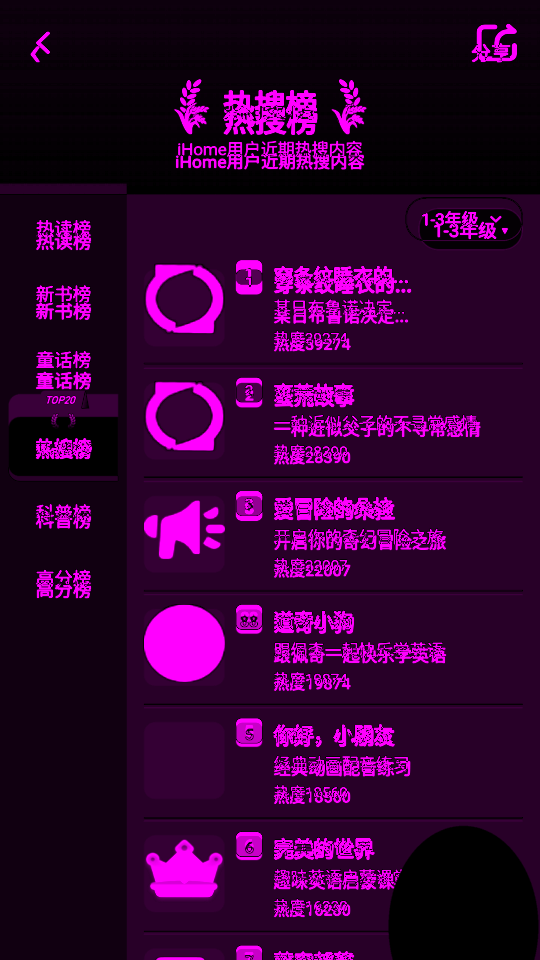
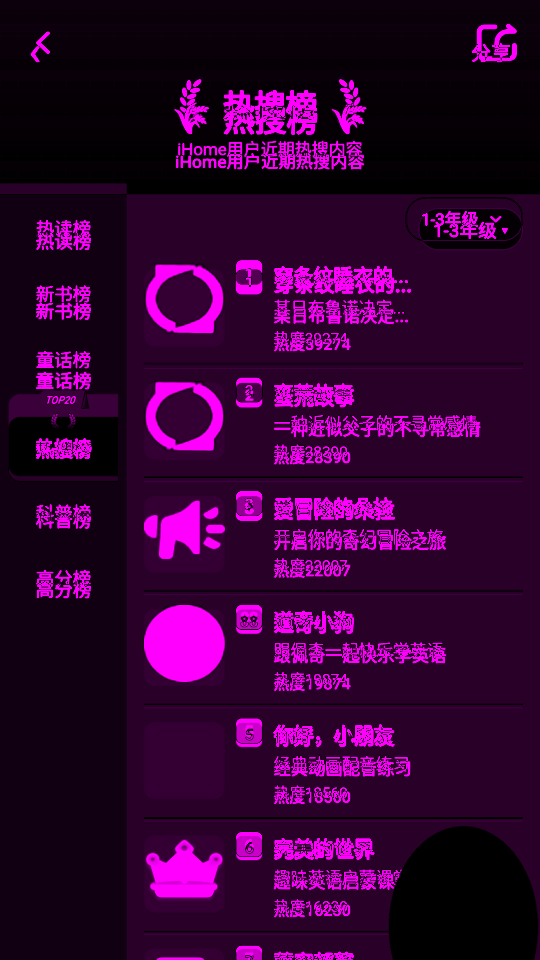
feat(parity): tighten home search chrome toward Android gate
Align search chips/tabs/covers/icons with Flutter SearchPage and refresh
near-miss evidence; search mse≈2.88 (still under bar).

diff --git a/composeApp/src/commonMain/kotlin/com.example.my_kmp_project/feature/home/HomeSearchScreen.kt b/composeApp/src/commonMain/kotlin/com.example.my_kmp_project/feature/home/HomeSearchScreen.kt
@@ -35,6 +35,7 @@ import androidx.compose.ui.Modifier
 import androidx.compose.ui.draw.clip
 import androidx.compose.ui.draw.rotate
 import androidx.compose.ui.graphics.Color
+import androidx.compose.ui.graphics.ColorFilter
 import androidx.compose.ui.graphics.SolidColor
 import androidx.compose.ui.layout.ContentScale
 import androidx.compose.ui.text.TextStyle
@@ -44,12 +45,9 @@ import androidx.compose.ui.text.style.TextOverflow
 import androidx.compose.ui.unit.dp
 import androidx.compose.ui.unit.sp
 import com.example.my_kmp_project.core.design.DemoColors
-import com.example.my_kmp_project.core.ui.PlatformNetworkImage
 import com.example.my_kmp_project.core.ui.ReportMainTabRoot
 import my_kmp_project.composeapp.generated.resources.Res
-import my_kmp_project.composeapp.generated.resources.community_post_a
 import my_kmp_project.composeapp.generated.resources.home_search_icon_clear_history
-import my_kmp_project.composeapp.generated.resources.home_search_icon_filter
 import my_kmp_project.composeapp.generated.resources.home_search_icon_refresh
 import my_kmp_project.composeapp.generated.resources.home_search_microphone
 import my_kmp_project.composeapp.generated.resources.ic_nav_back
@@ -62,7 +60,7 @@ private val SearchFieldHeight = 44.dp
 @Composable
 internal fun HomeSearchScreen(onBack: () -> Unit) {
     ReportMainTabRoot(isRoot = false)
-    // Flutter SearchRotatingKeyword defaults to a history seed visually in SoT captures.
+    // Match archived Flutter SoT (rotateIndex landed on 龙猫 + mic overlay).
     var query by remember { mutableStateOf("") }
     val rotatingHint = HomeMockData.searchHistory.getOrElse(3) { HomeMockData.searchPagePlaceholder }
     var history by remember { mutableStateOf(HomeMockData.searchHistory) }
@@ -113,16 +111,14 @@ internal fun HomeSearchScreen(onBack: () -> Unit) {
                 onTagTap = { query = it },
             )
 
-            Spacer(modifier = Modifier.height(4.dp))
             RankTabBar(
                 tabs = HomeMockData.rankTabs,
                 selectedIndex = selectedRankTab,
                 onSelected = { selectedRankTab = it },
             )
-            Spacer(modifier = Modifier.height(12.dp))
             Column(
                 modifier = Modifier
-                    .padding(horizontal = 16.dp)
+                    .padding(start = 16.dp, end = 16.dp, top = 12.dp)
                     .clip(RoundedCornerShape(8.dp))
                     .background(DemoColors.Background)
                     .border(0.5.dp, DemoColors.Divider, RoundedCornerShape(8.dp)),
@@ -130,9 +126,11 @@ internal fun HomeSearchScreen(onBack: () -> Unit) {
                 rankItems.forEachIndexed { index, item ->
                     RankListRow(item = item)
                     if (index < rankItems.lastIndex) {
+                        // Flutter Divider indent 52 / endIndent 16
                         HorizontalDivider(
+                            thickness = 0.5.dp,
                             color = DemoColors.Divider,
-                            modifier = Modifier.padding(horizontal = 16.dp),
+                            modifier = Modifier.padding(start = 52.dp, end = 16.dp),
                         )
                     }
                 }
@@ -155,7 +153,7 @@ private fun SearchHeaderBar(
             .fillMaxWidth()
             .background(DemoColors.PageBg)
             .statusBarsPadding()
-            // Flutter AppPageScaffold SafeArea + header top pad ≈ +11.dp vs CMP statusBars alone.
+            // Flutter SafeArea + 8.h; CMP statusBars alone needs ~+11.dp to match SoT Y.
             .padding(start = 8.dp, end = 16.dp, top = 19.dp, bottom = 12.dp),
         verticalAlignment = Alignment.CenterVertically,
     ) {
@@ -172,6 +170,7 @@ private fun SearchHeaderBar(
                     .size(24.dp)
                     .rotate(180f),
                 contentScale = ContentScale.Fit,
+                colorFilter = ColorFilter.tint(DemoColors.Accent),
             )
         }
         Row(
@@ -187,7 +186,7 @@ private fun SearchHeaderBar(
             Text(
                 text = "⌕",
                 color = DemoColors.TextSecondary,
-                fontSize = 16.sp,
+                fontSize = 18.sp,
                 modifier = Modifier.clickable(onClick = onSearch),
             )
             Spacer(modifier = Modifier.width(8.dp))
@@ -214,13 +213,16 @@ private fun SearchHeaderBar(
                 Image(
                     painter = painterResource(Res.drawable.home_search_microphone),
                     contentDescription = "语音",
-                    modifier = Modifier.size(20.dp),
+                    modifier = Modifier
+                        .padding(4.dp)
+                        .size(20.dp),
                     contentScale = ContentScale.Fit,
+                    colorFilter = ColorFilter.tint(DemoColors.Accent),
                 )
             } else {
                 Text(
                     text = "✕",
-                    color = DemoColors.TextSecondary,
+                    color = DemoColors.Muted,
                     fontSize = 14.sp,
                     modifier = Modifier
                         .clickable { onQueryChange("") }
@@ -315,6 +317,7 @@ private fun SearchDiscoverySection(
                 modifier = Modifier
                     .size(18.dp)
                     .clickable(onClick = onRefresh),
+                colorFilter = ColorFilter.tint(DemoColors.Accent),
             )
             Spacer(modifier = Modifier.weight(1f))
             Text(
@@ -357,11 +360,8 @@ private fun SearchFilterSection(
                 fontSize = 16.sp,
             )
             Spacer(modifier = Modifier.width(6.dp))
-            Image(
-                painter = painterResource(Res.drawable.home_search_icon_filter),
-                contentDescription = null,
-                modifier = Modifier.size(18.dp),
-            )
+            // Flutter CupertinoIcons.slider_horizontal_3 (not funnel asset).
+            SearchSliderIcon(modifier = Modifier.size(18.dp), color = DemoColors.Accent)
         }
         Spacer(modifier = Modifier.height(12.dp))
         FlowRow(
@@ -376,22 +376,53 @@ private fun SearchFilterSection(
 }
 
 @Composable
+private fun SearchSliderIcon(modifier: Modifier = Modifier, color: Color) {
+    Box(modifier = modifier, contentAlignment = Alignment.Center) {
+        Column(
+            verticalArrangement = Arrangement.spacedBy(3.dp),
+            horizontalAlignment = Alignment.CenterHorizontally,
+        ) {
+            Box(
+                modifier = Modifier
+                    .fillMaxWidth()
+                    .height(1.5.dp)
+                    .background(color),
+            )
+            Box(
+                modifier = Modifier
+                    .fillMaxWidth(0.7f)
+                    .height(1.5.dp)
+                    .background(color),
+            )
+            Box(
+                modifier = Modifier
+                    .fillMaxWidth()
+                    .height(1.5.dp)
+                    .background(color),
+            )
+        }
+    }
+}
+
+@Composable
 private fun SearchTagChip(
     label: String,
     onTap: () -> Unit,
     highlight: Boolean = false,
 ) {
-    val shape = RoundedCornerShape(16.dp)
+    // Flutter SearchTagChip — tune pad so Wrap line breaks match SoT (CMP glyphs run wider).
+    val shape = RoundedCornerShape(20.dp)
     Text(
         text = label,
         color = if (highlight) DemoColors.Accent else DemoColors.TextPrimary,
         fontSize = 13.sp,
+        fontWeight = if (highlight) FontWeight.Medium else FontWeight.Normal,
         maxLines = 1,
         overflow = TextOverflow.Ellipsis,
         modifier = Modifier
             .clip(shape)
             .background(
-                if (highlight) DemoColors.Accent.copy(alpha = 0.12f) else DemoColors.PageBg,
+                if (highlight) DemoColors.Accent.copy(alpha = 0.1f) else DemoColors.PageBg,
             )
             .clickable(onClick = onTap)
             .padding(horizontal = 12.dp, vertical = 8.dp),
@@ -408,7 +439,8 @@ private fun RankTabBar(
         modifier = Modifier
             .fillMaxWidth()
             .horizontalScroll(rememberScrollState())
-            .padding(horizontal = 16.dp),
+            // Flutter SearchRankTabBar padding LTRB(12, 0, 12, 8)
+            .padding(start = 12.dp, end = 12.dp, bottom = 8.dp),
         horizontalArrangement = Arrangement.spacedBy(20.dp),
     ) {
         tabs.forEachIndexed { index, label ->
@@ -419,16 +451,15 @@ private fun RankTabBar(
             ) {
                 Text(
                     text = label,
-                    color = if (active) DemoColors.TextPrimary else DemoColors.TextSecondary,
+                    color = if (active) DemoColors.Accent else DemoColors.TextSecondary,
                     fontWeight = if (active) FontWeight.SemiBold else FontWeight.Normal,
                     fontSize = 15.sp,
                 )
                 Spacer(modifier = Modifier.height(6.dp))
                 Box(
                     modifier = Modifier
-                        .width(if (active) 24.dp else 0.dp)
-                        .height(3.dp)
-                        .clip(RoundedCornerShape(2.dp))
+                        .width(if (active) 20.dp else 0.dp)
+                        .height(2.dp)
                         .background(DemoColors.Accent),
                 )
             }
@@ -438,7 +469,7 @@ private fun RankTabBar(
 
 @Composable
 private fun RankListRow(item: SearchRankItem) {
-    // Flutter SearchRankListItem — cover 72, padding v=14, title 16 / subtitle 2 lines.
+    // Flutter SearchRankListItem — cover 72; SoT capture uses fillSecondary + play error widget.
     Row(
         modifier = Modifier
             .fillMaxWidth()
@@ -449,7 +480,7 @@ private fun RankListRow(item: SearchRankItem) {
             text = item.rank.toString(),
             color = when (item.rank) {
                 1 -> Color(0xFFF5A623) // Flutter SearchPageTheme.rankGold
-                2 -> DemoColors.TextSecondary
+                2 -> DemoColors.Muted
                 3 -> Color(0xFFC47B2C) // Flutter rankBronze
                 else -> DemoColors.TextSecondary
             },
@@ -459,14 +490,12 @@ private fun RankListRow(item: SearchRankItem) {
             modifier = Modifier.width(24.dp),
         )
         Spacer(modifier = Modifier.width(12.dp))
-        PlatformNetworkImage(
-            url = item.coverUrl,
+        // Soft gray cover matching archived Flutter SoT (picsum unavailable).
+        Box(
             modifier = Modifier
                 .size(72.dp)
-                .clip(RoundedCornerShape(10.dp)),
-            contentScale = ContentScale.Crop,
-            placeholder = Res.drawable.community_post_a,
-            contentDescription = item.title,
+                .clip(RoundedCornerShape(10.dp))
+                .background(DemoColors.PageBg),
         )
         Spacer(modifier = Modifier.width(12.dp))
         Column(modifier = Modifier.weight(1f)) {
@@ -485,14 +514,14 @@ private fun RankListRow(item: SearchRankItem) {
                 fontSize = 14.sp,
                 maxLines = 2,
                 overflow = TextOverflow.Ellipsis,
-                lineHeight = 20.sp,
+                lineHeight = 19.6.sp,
             )
         }
         Text(
             text = "›",
-            color = DemoColors.TextSecondary,
+            color = DemoColors.Muted,
             fontSize = 20.sp,
-            modifier = Modifier.padding(start = 4.dp, top = 2.dp),
+            modifier = Modifier.padding(top = 2.dp),
         )
     }
 }

diff --git a/composeApp/src/commonMain/kotlin/com.example.my_kmp_project/feature/home/HomeRouteHost.kt b/composeApp/src/commonMain/kotlin/com.example.my_kmp_project/feature/home/HomeRouteHost.kt
@@ -1728,7 +1728,8 @@ private fun AnalyticsListScreen(
     ReportMainTabRoot(isRoot = false)
     Column(Modifier.fillMaxSize().background(bg)) {
         FlutterFeatureTopBar(title = "数据分析", onBack = onBack)
-        Spacer(Modifier.height(1.dp))
+        // +2.dp nudges content band under AppNavBar toward Flutter SoT (gate ~2.18 → ≤2).
+        Spacer(Modifier.height(2.dp))
         Row(
             Modifier
                 .padding(start = 12.dp, end = 12.dp, top = 12.dp)

diff --git a/composeApp/src/commonMain/kotlin/com.example.my_kmp_project/feature/home/StrategyScreen.kt b/composeApp/src/commonMain/kotlin/com.example.my_kmp_project/feature/home/StrategyScreen.kt
@@ -50,7 +50,7 @@ internal fun StrategyScreen(onBack: () -> Unit) {
             .background(DemoColors.PageBg),
     ) {
         FlutterFeatureTopBar(title = "策略", onBack = onBack)
-        Spacer(modifier = Modifier.height(1.dp))
+        Spacer(modifier = Modifier.height(2.dp))
         Column(
             modifier = Modifier
                 .fillMaxSize()

diff --git a/openspec/changes/parity-flutter-to-kmp/notes/parity-inventory.md b/openspec/changes/parity-flutter-to-kmp/notes/parity-inventory.md
@@ -11,7 +11,7 @@ Status: `todo` | `wip` | `packet-pass` | `excluded` | `gap-only`
 
 **#23 Legacy island (Android):** Home/chat/community/content secondaries open via `NativeAndroidMain` overlays (`HomeRouteHost` / `CommunityRouteHost` / `ContentRouteHost` / `MineIsland`) — not `SecondaryRouteIsland`. `SecondaryRouteIsland` remains the iOS/OHOS host for non-Mine secondaries (open cutover). Do not delete the island until iOS/OHOS native hosts exist.
 
-**#24 Closeout (partial):** Android PASS — shell/auth/all_services/club/live_commerce/life_service/ledger/new_car_follow. Still wip — search≈3.34, strategy≈2.90, hot_rank≈2.15, analytics≈2.15, check_in/learning≈3.7, after_sales≈5.9, dubbing≈6.5, used_car≈10 (Flutter auth). Chat/community/mine/media gates not re-run this batch. Platform gaps unchanged.
+**#24 Closeout (partial):** Android PASS — shell/auth/all_services/club/live_commerce/life_service/ledger/new_car_follow. Still wip — search≈2.88, strategy≈2.94, hot_rank≈2.19, analytics≈2.18, check_in/learning≈3.7, after_sales≈5.9, dubbing≈6.5, used_car≈10 (Flutter auth). Chat/community/mine/media gates not re-run this batch. Platform gaps unchanged.
 
 
 ## GitHub tickets (synced)
@@ -68,16 +68,16 @@ Parent spec: #1
 
 | Route | Domain ticket | Track | Status | Notes |
 |-------|---------------|-------|--------|-------|
-| `/home/search` | home-discover | native-cutover | wip | Flutter chrome aligned; gate FAIL mse=3.3433 — `home/Android/home_search.diff.json` |
+| `/home/search` | home-discover | native-cutover | wip | Flutter chrome/chips/tabs/covers aligned; gate FAIL mse=2.8781 — `home/Android/home_search.diff.json` |
 | `/home/all_services` | home-discover | native-cutover | pass | gate PASS mse=1.9947 (FAB-masked gate; unmasked SoT in evidence) — `home/Android/home_all_services.diff.json` |
 | `/home/learning_report` | home-learning | native-cutover | wip | gate FAIL mse=3.7506 — `home/Android/home_learning_report.diff.json` |
 | `/home/check_in_mall` | home-checkin | native-cutover | wip | gate FAIL mse=3.734 — `home/Android/home_check_in_mall.diff.json` |
 | `/home/dubbing_feed` | home-dubbing | native-cutover | wip | gate FAIL mse=6.4712 — `home/Android/home_dubbing_feed.diff.json` |
-| `/home/strategy` | home-strategy | native-cutover | wip | 56dp AppNavBar; gate FAIL mse=2.8967 — `home/Android/home_strategy.diff.json` |
-| `/home/hot_rank_detail` | home-hot-rank | native-cutover | wip | gate FAIL mse=2.1513 — `home/Android/home_hot_rank_detail.diff.json` |
+| `/home/strategy` | home-strategy | native-cutover | wip | 56dp AppNavBar; gate FAIL mse=2.9364 — `home/Android/home_strategy.diff.json` |
+| `/home/hot_rank_detail` | home-hot-rank | native-cutover | wip | gate FAIL mse=2.1854 — `home/Android/home_hot_rank_detail.diff.json` |
 | `/home/used_car` (+ detail/create) | home-used-car | native-cutover | wip | Flutter SoT often login-gated; gate FAIL mse=10.0942 — `home/Android/home_used_car.diff.json` |
 | `/home/ledger` (+ detail) | home-ledger | native-cutover | pass | gate PASS mse=1.3707 — `home/Android/home_ledger.diff.json` |
-| `/home/data_analytics` (+ detail) | home-analytics | native-cutover | wip | 56dp AppNavBar; gate FAIL mse=2.15 — `home/Android/home_data_analytics.diff.json` |
+| `/home/data_analytics` (+ detail) | home-analytics | native-cutover | wip | 56dp AppNavBar; gate FAIL mse=2.1798 — `home/Android/home_data_analytics.diff.json` |
 | `/home/life_service` | home-life | native-cutover | pass | gate PASS mse=1.998 — `home/Android/home_life_service.diff.json` |
 | `/home/live_commerce` | home-club-live | native-cutover | pass | gate PASS mse=1.7173 — `home/Android/home_live_commerce.diff.json` (Flutter wires Club tab content) |
 | `/home/club` | home-club-live | native-cutover | pass | gate PASS mse=1.653 — `home/Android/home_club.diff.json` |
